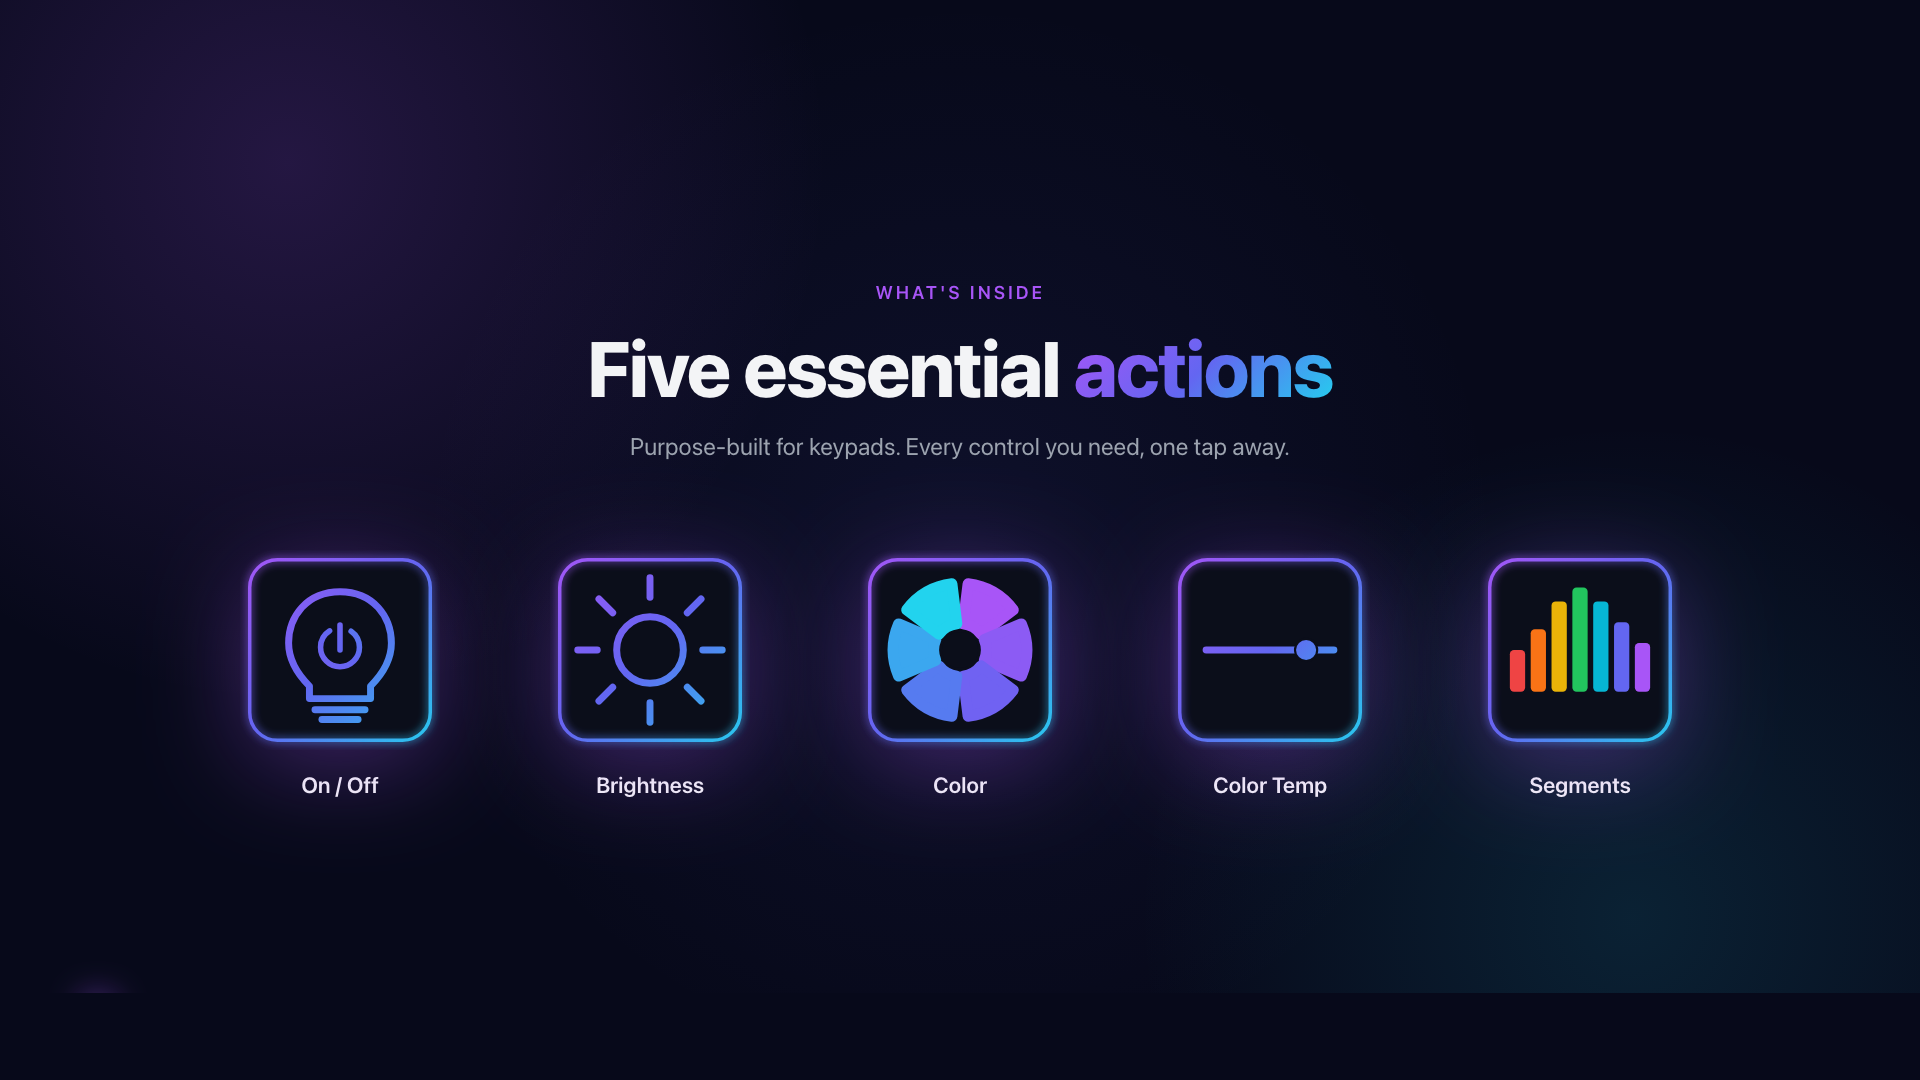
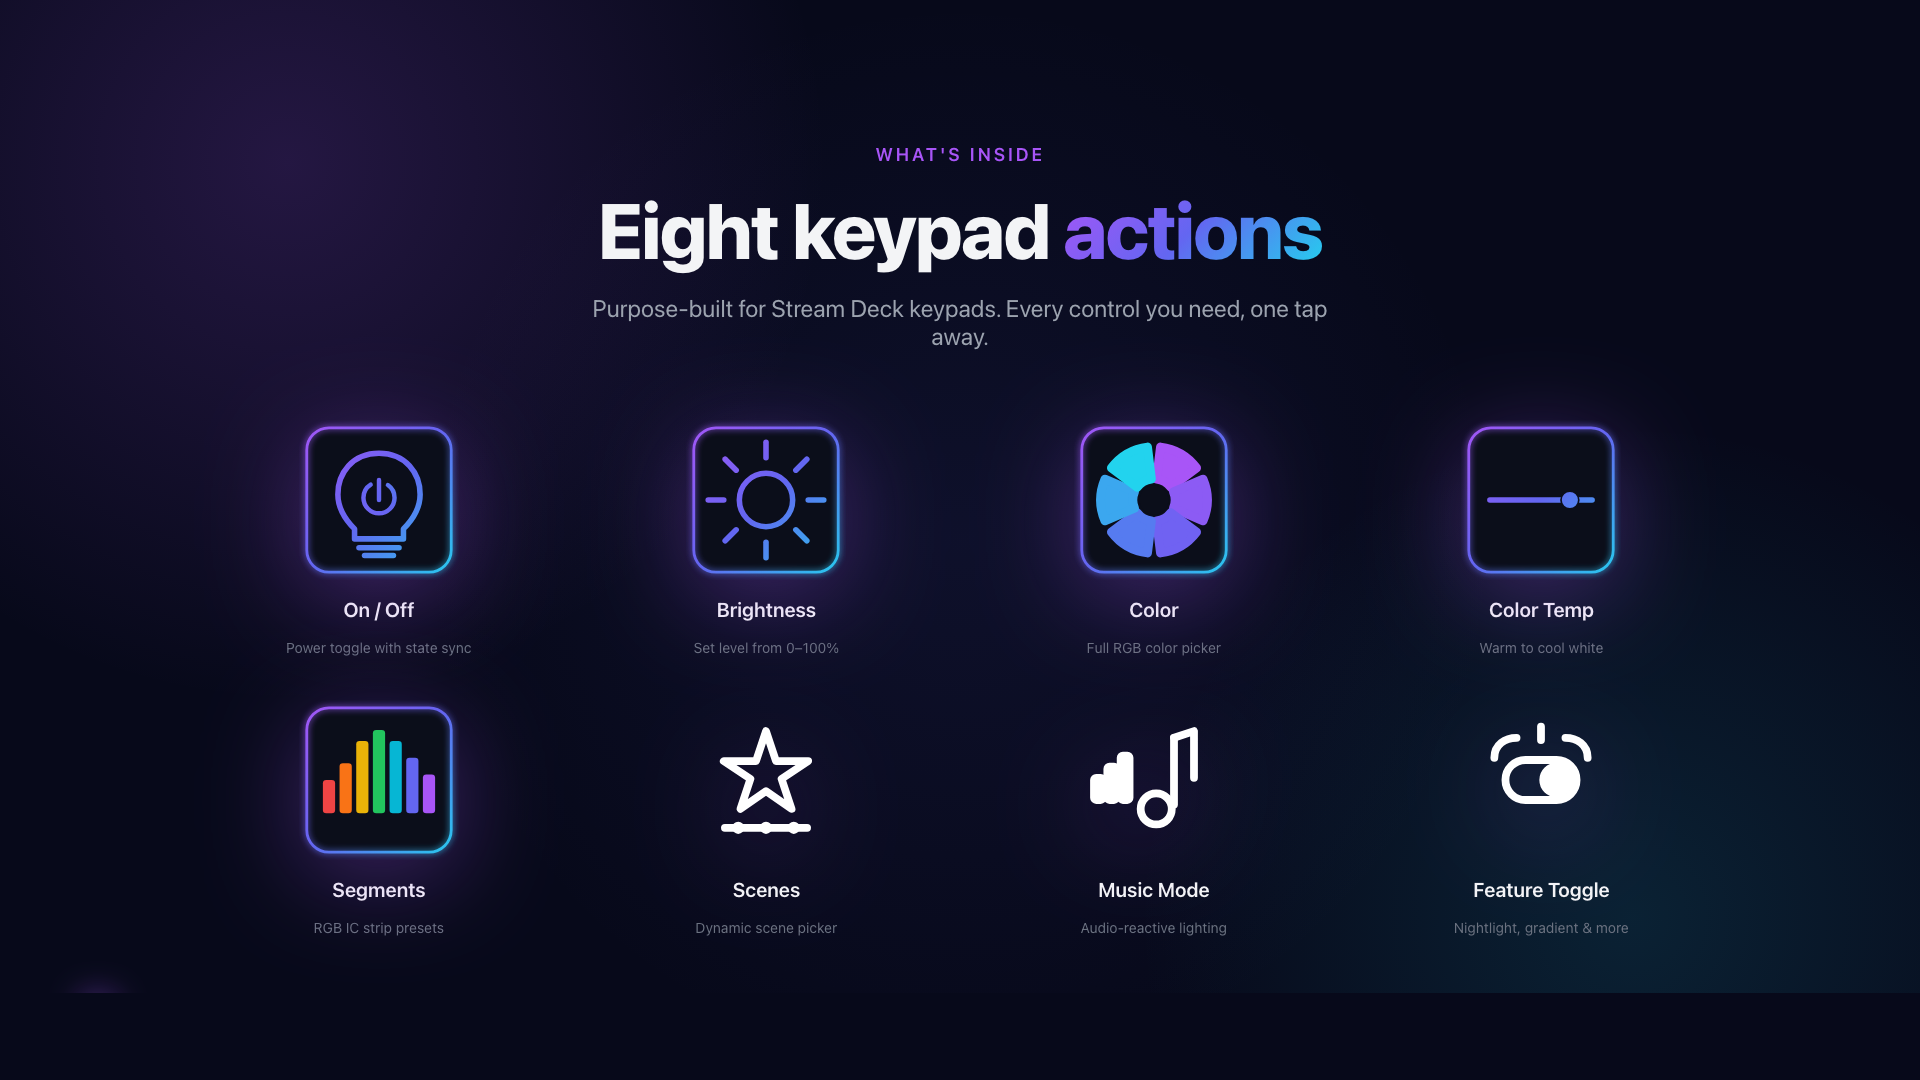
feat: add v2.1 marketplace gallery material
- Add dedicated v2.1 feature hero slide (Scenes, Music Mode, Feature Toggle)
- Update keypad actions slide from 5 to 8 actions in 4x2 grid
- Add scene, music-mode, and toggle SVG icons to gallery assets
- Regenerate all 5 gallery screenshots via Chrome headless
- Update gallery README with new file listing

diff --git a/docs/gallery/2-actions.html b/docs/gallery/2-actions.html
@@ -6,7 +6,7 @@
     display: flex; flex-direction: column; align-items: center; justify-content: center;
     padding: 0 120px;
   }
-  .head { text-align: center; margin-bottom: 90px; }
+  .head { text-align: center; margin-bottom: 70px; }
   .eyebrow { margin-bottom: 24px; }
   h1 {
     font-size: 78px;
@@ -23,38 +23,47 @@
   }
   .grid {
     display: grid;
-    grid-template-columns: repeat(5, 1fr);
-    gap: 50px;
+    grid-template-columns: repeat(4, 1fr);
+    gap: 44px 50px;
     width: 100%;
     max-width: 1500px;
   }
   .item {
-    display: flex; flex-direction: column; align-items: center; gap: 22px;
+    display: flex; flex-direction: column; align-items: center; gap: 18px;
   }
   .item img {
-    width: 200px; height: 200px;
+    width: 160px; height: 160px;
     filter: drop-shadow(0 20px 50px rgba(168,85,247,0.35));
   }
   .item .label {
-    font-size: 22px;
+    font-size: 20px;
     font-weight: 600;
     color: var(--text);
     text-align: center;
+  }
+  .item .desc {
+    font-size: 14px;
+    color: var(--dim);
+    text-align: center;
+    max-width: 200px;
   }
 </style></head>
 <body>
 <div class="wrap">
   <div class="head">
     <span class="eyebrow">What's inside</span>
-    <h1>Five essential <span class="grad-text">actions</span></h1>
-    <p class="sub">Purpose-built for keypads. Every control you need, one tap away.</p>
+    <h1>Eight keypad <span class="grad-text">actions</span></h1>
+    <p class="sub">Purpose-built for Stream Deck keypads. Every control you need, one tap away.</p>
   </div>
   <div class="grid">
-    <div class="item"><img src="./assets/light.svg" alt=""><div class="label">On / Off</div></div>
-    <div class="item"><img src="./assets/brightness.svg" alt=""><div class="label">Brightness</div></div>
-    <div class="item"><img src="./assets/color.svg" alt=""><div class="label">Color</div></div>
-    <div class="item"><img src="./assets/colortemp.svg" alt=""><div class="label">Color Temp</div></div>
-    <div class="item"><img src="./assets/segment-color.svg" alt=""><div class="label">Segments</div></div>
+    <div class="item"><img src="./assets/light.svg" alt=""><div class="label">On / Off</div><div class="desc">Power toggle with state sync</div></div>
+    <div class="item"><img src="./assets/brightness.svg" alt=""><div class="label">Brightness</div><div class="desc">Set level from 0–100%</div></div>
+    <div class="item"><img src="./assets/color.svg" alt=""><div class="label">Color</div><div class="desc">Full RGB color picker</div></div>
+    <div class="item"><img src="./assets/colortemp.svg" alt=""><div class="label">Color Temp</div><div class="desc">Warm to cool white</div></div>
+    <div class="item"><img src="./assets/segment-color.svg" alt=""><div class="label">Segments</div><div class="desc">RGB IC strip presets</div></div>
+    <div class="item"><img src="./assets/scene.svg" alt=""><div class="label">Scenes</div><div class="desc">Dynamic scene picker</div></div>
+    <div class="item"><img src="./assets/music-mode.svg" alt=""><div class="label">Music Mode</div><div class="desc">Audio-reactive lighting</div></div>
+    <div class="item"><img src="./assets/toggle.svg" alt=""><div class="label">Feature Toggle</div><div class="desc">Nightlight, gradient & more</div></div>
   </div>
 </div>
 <div class="brand-footer">

diff --git a/docs/gallery/5-v21-features.html b/docs/gallery/5-v21-features.html
@@ -1,0 +1,110 @@
+<!DOCTYPE html>
+<html><head><meta charset="UTF-8"><title>Gallery 5 — New in v2.1</title><link rel="stylesheet" href="./shared.css">
+<style>
+  .wrap {
+    width: 1920px; height: 1080px;
+    display: flex; flex-direction: column; align-items: center; justify-content: center;
+    padding: 0 120px;
+  }
+  .head { text-align: center; margin-bottom: 80px; }
+  .badge {
+    display: inline-block;
+    font-size: 15px;
+    font-weight: 700;
+    letter-spacing: 0.12em;
+    text-transform: uppercase;
+    color: #fff;
+    background: var(--grad);
+    padding: 8px 22px;
+    border-radius: 100px;
+    margin-bottom: 28px;
+  }
+  h1 {
+    font-size: 78px;
+    font-weight: 800;
+    letter-spacing: -0.02em;
+    line-height: 1.05;
+    margin-bottom: 24px;
+  }
+  .sub {
+    font-size: 24px;
+    color: var(--muted);
+    max-width: 860px;
+    margin: 0 auto;
+  }
+  .features {
+    display: grid;
+    grid-template-columns: repeat(3, 1fr);
+    gap: 44px;
+    width: 100%;
+    max-width: 1500px;
+  }
+  .feature {
+    background: linear-gradient(180deg, rgba(255,255,255,0.04), rgba(255,255,255,0.01));
+    border: 1px solid var(--border);
+    border-radius: 24px;
+    padding: 48px 40px;
+    display: flex; flex-direction: column; align-items: center;
+    text-align: center;
+    box-shadow: 0 30px 80px rgba(0,0,0,0.4), 0 0 0 1px rgba(255,255,255,0.03) inset;
+  }
+  .feature img {
+    width: 140px; height: 140px;
+    margin-bottom: 28px;
+    filter: drop-shadow(0 16px 48px rgba(168,85,247,0.4));
+  }
+  .feature h3 {
+    font-size: 30px;
+    font-weight: 800;
+    margin-bottom: 14px;
+    letter-spacing: -0.01em;
+  }
+  .feature p {
+    font-size: 18px;
+    color: var(--muted);
+    line-height: 1.55;
+    max-width: 300px;
+  }
+  .feature .tag {
+    display: inline-block;
+    font-size: 12px;
+    font-weight: 700;
+    letter-spacing: 0.1em;
+    text-transform: uppercase;
+    color: var(--a3);
+    margin-bottom: 20px;
+  }
+</style></head>
+<body>
+<div class="wrap">
+  <div class="head">
+    <div class="badge">New in v2.1</div>
+    <h1>Three powerful <span class="grad-text">new actions</span></h1>
+    <p class="sub">Dynamic scenes, music-reactive lighting, and feature toggles — all queried live from your devices.</p>
+  </div>
+  <div class="features">
+    <div class="feature">
+      <div class="tag">Keypad action</div>
+      <img src="./assets/scene.svg" alt="">
+      <h3>Scenes</h3>
+      <p>Apply dynamic scenes like Sunrise, Aurora, or Rainbow — fetched directly from each device's capabilities.</p>
+    </div>
+    <div class="feature">
+      <div class="tag">Keypad action</div>
+      <img src="./assets/music-mode.svg" alt="">
+      <h3>Music Mode</h3>
+      <p>Activate audio-reactive lighting with Rhythm, Energic, Spectrum, or Rolling — sensitivity adjustable per button.</p>
+    </div>
+    <div class="feature">
+      <div class="tag">Keypad action</div>
+      <img src="./assets/toggle.svg" alt="">
+      <h3>Feature Toggle</h3>
+      <p>One-tap control for Nightlight, Gradient, DreamView, and Scene Stage — auto-filtered by device capability.</p>
+    </div>
+  </div>
+</div>
+<div class="brand-footer">
+  <img src="./assets/light.svg" alt="">
+  Govee Light Management
+</div>
+</body></html>

diff --git a/docs/gallery/README.md b/docs/gallery/README.md
@@ -9,7 +9,7 @@ Open each in a browser and take a screenshot to produce marketplace gallery imag
 
 ```bash
 cd docs/gallery
-for page in 1-hero 2-actions 3-dials 4-setup; do
+for page in 1-hero 2-actions 3-dials 4-setup 5-v21-features; do
   /Applications/Google\ Chrome.app/Contents/MacOS/Google\ Chrome \
     --headless --disable-gpu --hide-scrollbars \
     --window-size=1920,1080 \
@@ -34,11 +34,12 @@ npx playwright screenshot --viewport-size=1920,1080 \
 
 ## Files
 
-| File             | Purpose                                               |
-| ---------------- | ----------------------------------------------------- |
-| `1-hero.html`    | Hero shot with headline + 4 action icons              |
-| `2-actions.html` | 5-icon keypad actions overview                        |
-| `3-dials.html`   | Stream Deck+ dial experience with touchscreen layouts |
-| `4-setup.html`   | 3-step setup walkthrough                              |
+| File                  | Purpose                                                   |
+| --------------------- | --------------------------------------------------------- |
+| `1-hero.html`         | Hero shot with headline + 4 action icons                  |
+| `2-actions.html`      | All 8 keypad actions in a 4×2 grid                        |
+| `3-dials.html`        | Stream Deck+ dial experience with touchscreen layouts     |
+| `4-setup.html`        | 3-step setup walkthrough                                  |
+| `5-v21-features.html` | New in v2.1 — Scenes, Music Mode, Feature Toggle showcase |
 
 Upload the captured PNGs to the Elgato Marketplace listing (minimum 3, no cropped info).
